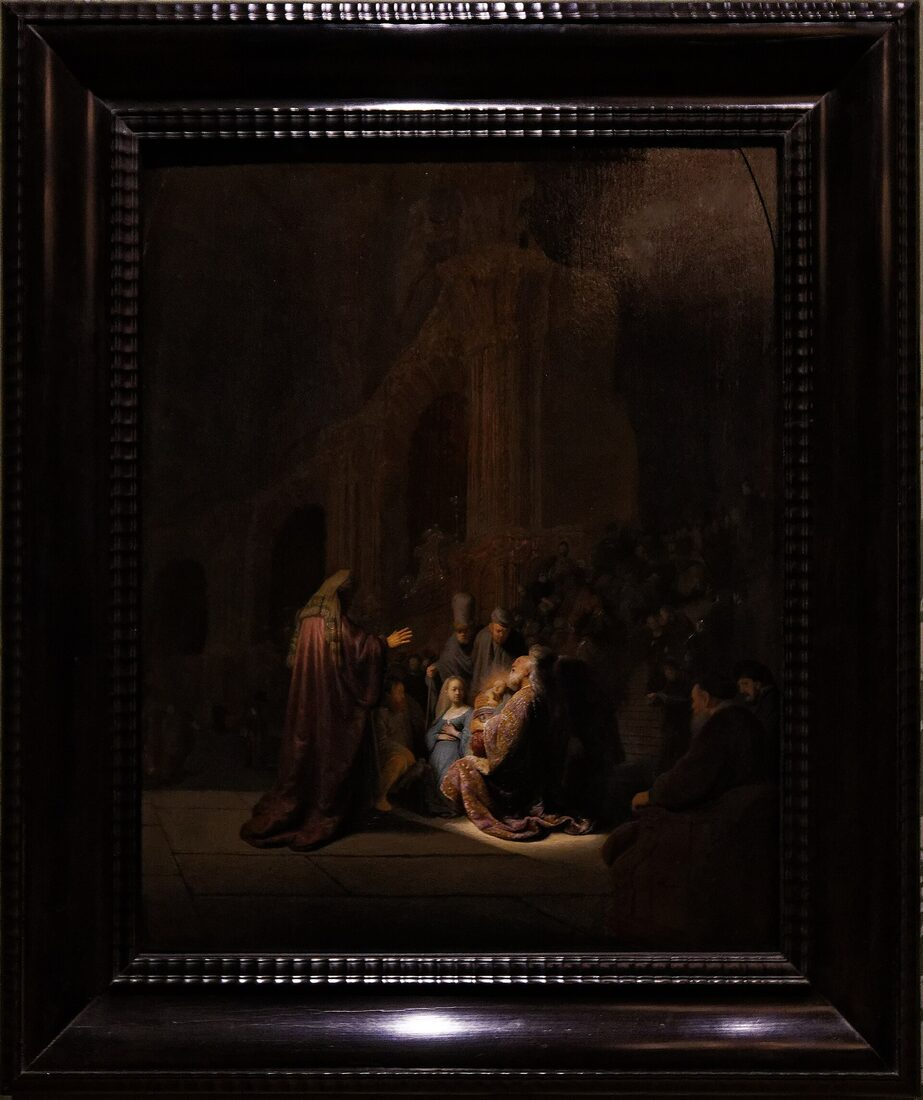
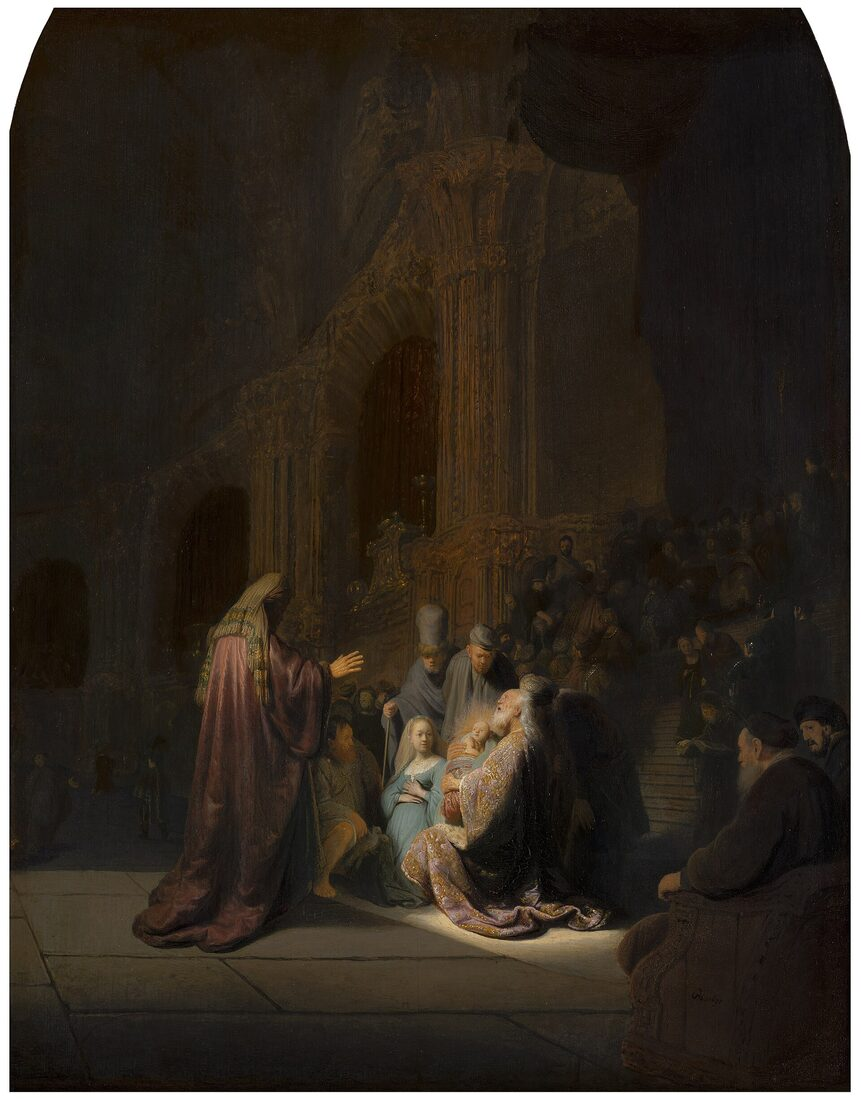
Rosário: replace a canvas verso and two weak scans in the contemplation images
Três imagens dos mistérios não eram o que deviam ser:

- Cruz às Costas [2] was not a painting at all — the Commons file
  "Christ Carrying the Cross MET DP347296.jpg" is the MET's photo of the
  *verso* of the canvas: stretcher bars, tacking edge and the Grafton
  Galleries 1913-14 exhibition labels. Replaced with Raphael's Lo Spasimo
  di Sicilia (Prado).

- Coroação de Espinhos [2] was a second scan of the *same* Caravaggio as
  slot [1], so the carousel's random pick had nothing to choose between.
  Replaced with Bosch's Christ Mocked (National Gallery, London), which
  reads in a genuinely different register.

- Purificação [1] used the "Den Haag - Mauritshuis - ..." scan of
  Rembrandt's Simeon's Song of Praise — a gallery photo dominated by its
  ornate frame, with the painting small and dark in the middle. Swapped
  for the bare-canvas scan of the same work.

Contact-sheeted all 40 images while in here; no other verso or non-painting.

The curated titles in fetch-rosary-images.py are updated so a future
re-fetch reproduces this set, each with a comment on why the old file was
rejected. Rebuilt via build-rosary-images.py — the re-encode is
deterministic, so only the 3 intended files changed on disk.

diff --git a/scripts/fetch-rosary-images.py b/scripts/fetch-rosary-images.py
@@ -33,7 +33,9 @@ SPEC = [
     ("File:Antonio Allegri, called Correggio - The Holy Night - Google Art Project.jpg", "Correggio Holy Night Adoration Shepherds Dresden"),
   ]),
   (4, "purificacao", [
-    ("File:Den Haag - Mauritshuis - Rembrandt Harmensz. van Rijn (1606-1669) - Simeon’s song of praise 1631.jpg", "Rembrandt Simeon Song of Praise"),
+    # NOTE: the "Den Haag - Mauritshuis - ..." scan of this Rembrandt is a gallery
+    # photo dominated by its ornate frame; this file is the bare canvas.
+    ("File:Het loflied van Simeon, Rembrandt van Rijn, 1631, Mauritshuis, The Hague.jpg", "Rembrandt Simeon Song of Praise Mauritshuis"),
     ("File:Presentation in the Temple Prado Master.jpg", "Presentation in the Temple painting Prado"),
   ]),
   (5, "o-menino-perdido", [
@@ -52,11 +54,15 @@ SPEC = [
   ]),
   (3, "coroacao-de-espinhos", [
     ("File:The Crowning with Thorns-Caravaggio (1602).jpg", "Caravaggio Crowning with Thorns"),
-    ("File:Michelangelo Merisi, called Caravaggio - The Crowning with Thorns - Google Art Project.jpg", "Caravaggio Crowning with Thorns Google Art"),
+    # NOTE: the second slot used to be another scan of the SAME Caravaggio, so the
+    # carousel's random pick was wasted. Bosch gives a genuinely distinct image.
+    ("File:Hieronymus Bosch - Christ Mocked (The Crowning with Thorns) - Google Art Project.jpg", "Bosch Christ Mocked Crowning with Thorns National Gallery"),
   ]),
   (4, "a-cruz-as-costas", [
     ("File:El Greco - Christ Carrying the Cross - Google Art Project.jpg", "El Greco Christ Carrying the Cross"),
-    ("File:Christ Carrying the Cross MET DP347296.jpg", "Christ Carrying the Cross painting"),
+    # NOTE: "Christ Carrying the Cross MET DP347296.jpg" was dropped — that MET
+    # scan is the verso of the canvas (stretcher bars + gallery labels), not the painting.
+    ("File:Raphael Spasimo.jpg", "Raphael Lo Spasimo di Sicilia Prado"),
   ]),
   (5, "morte-de-jesus", [
     ("File:Cristo crucificado.jpg", "Velazquez Christ Crucified"),

diff --git a/scripts/build-rosary-images.py b/scripts/build-rosary-images.py
@@ -33,9 +33,9 @@ ARTISTS = {
     "dolorosos/2-flagelacao-1.jpg": "Caravaggio",
     "dolorosos/2-flagelacao-2.jpg": "William-Adolphe Bouguereau",
     "dolorosos/3-coroacao-de-espinhos-1.jpg": "Caravaggio",
-    "dolorosos/3-coroacao-de-espinhos-2.jpg": "Caravaggio",
+    "dolorosos/3-coroacao-de-espinhos-2.jpg": "Hieronymus Bosch",
     "dolorosos/4-a-cruz-as-costas-1.jpg": "El Greco",
-    "dolorosos/4-a-cruz-as-costas-2.jpg": "El Greco",
+    "dolorosos/4-a-cruz-as-costas-2.jpg": "Rafael",
     "dolorosos/5-morte-de-jesus-1.jpg": "Diego Velázquez",
     "dolorosos/5-morte-de-jesus-2.jpg": "Andrea Mantegna",
     "gloriosos/1-ressurreicao-1.jpg": "Piero della Francesca",
